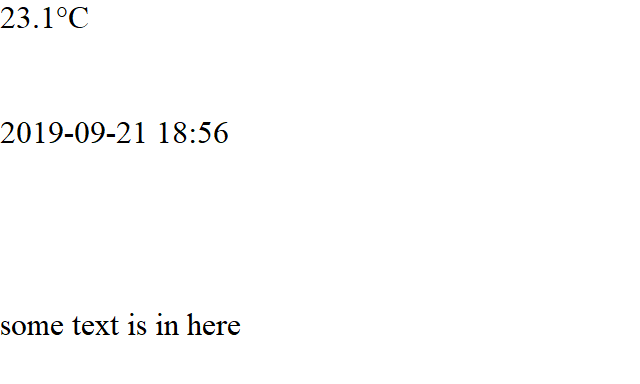
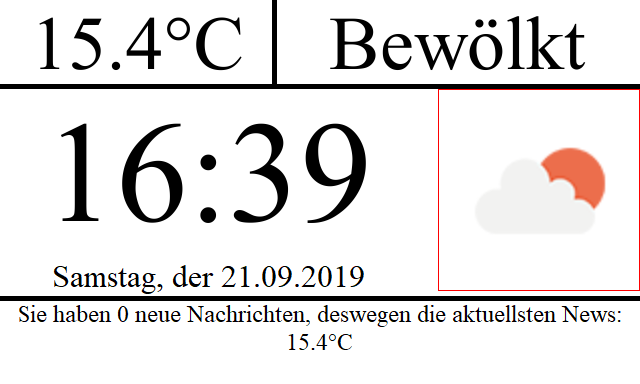
code is executed depended on operating system; beautification of html file

diff --git a/server/static/css/index.css b/server/static/css/index.css
@@ -1,27 +1,61 @@
 body {
     background-color: black;
-    /* margin: 0px; */
 }
 .epaper{
     width: 640px;
     height: 384px;
     background-color: white;
 }
+.mid {
+    border-bottom-style: solid;
+    border-width: 5px;
+    text-align: center;
+}
 .top {
-    height: 30%;
+    height: 22%;
     width: 100%;
     background-color: white;
-    font-size: 200%;
+    font-size: 475%;
+    border-bottom-style: solid;
+    border-width: 5px;
+}
+.top > div{
+    width: 43%;
+    float:left;
+    text-align: center;
+}
+.linemiddle {
+    background-color: black;
+    position: absolute;
+    height: 95px;
+    width: 5px;
+    left: 280px;
+    top: 0px;
+}
+ 
+#rechts {
+    float: right;
+    width: 200px;
+    height: 200px;
+    margin-left: 20px;
+    border: 1px solid red;
 }
 .middle {
-    height: 50%;
+    height: 38%;
+    width: 65%;
+    background-color: white;
+    font-size: 900%;
+}
+.secoundmiddle{
+    height: 14%;
     width: 100%;
     background-color: white;
     font-size: 200%;
 }
 .bottom {
-    height: 20%;
+    height: 26%;
     width: 100%;
     background-color: white;
-    font-size: 200%;
+    font-size: 150%;
+    text-align: center;
 }

diff --git a/server/templates/index.html b/server/templates/index.html
@@ -4,12 +4,23 @@
       <title>{{ title }}</title>
    </head>
    <body>
-      <!--<h1>Hello, World!</h1>
-      <h2>The date and time on the server is: {{ time }}</h2>-->
-      <div class="epaper">
+      <!-- <div class="epaper">
          <div class="top">{{ celsius }}</div>
          <div class="middle">{{ time }}</div>
          <div class="bottom">some text is in here</div>
-      </div>
+      </div> -->
+      <div class="epaper">
+            <div class="top">
+               <div>{{ celsius }}</div>
+               <div style="width:57%">Bewölkt</div>
+            </div>
+            <div class="linemiddle"></div>
+            <img id="rechts" src="http://openweathermap.org/img/wn/02d@2x.png">
+            <div class="mid">
+               <div class="middle">16:39</div>
+               <div class="secoundmiddle">Samstag, der 21.09.2019</div>
+            </div>
+            <div class="bottom">Sie haben 0 neue Nachrichten, deswegen die aktuellsten News: {{ celsius }}</div>
+         </div>
    </body>
 </html>

diff --git a/server/imageCreator.py b/server/imageCreator.py
@@ -1,4 +1,5 @@
 import imgkit
+import platform
 from PIL import Image
 
 def GetPng():
@@ -10,8 +11,11 @@ def GetPng():
         'crop-y': '8',
         'encoding': "ASCII",
     }
-    # config = imgkit.config(wkhtmltoimage='C:\\Program Files\\wkhtmltopdf\\bin\\wkhtmltoimage.exe')
-    config = imgkit.config(wkhtmltoimage='/usr/bin/wkhtmltoimage')
+    if platform.system() == 'Windows':
+        config = imgkit.config(wkhtmltoimage='C:\\Program Files\\wkhtmltopdf\\bin\\wkhtmltoimage.exe')
+    elif platform.system() == 'Linux':
+        config = imgkit.config(wkhtmltoimage='/usr/bin/wkhtmltoimage')
+    
     imgkit.from_url('172.16.1.60:5000', 'out.png', options=options, config=config)
     file = open(r"static/content.txt", "w")
     file.write("Lorem")
